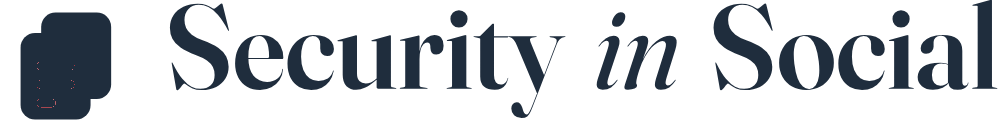
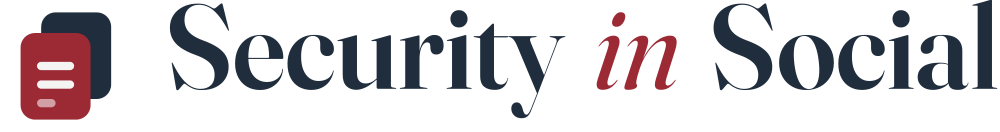
Fix Firm field visibility and garnet thumbnail remap
.form .field { display: flex } overrode the hidden attribute, so Firm
stayed on screen for applicant and family. Force display:none on
.form .field[hidden].

_anchor_remap squared channel deltas in int16, which wrapped and
flattened favicon, apple-touch, and lockup-1000 to slate. Use int32
and clip, then regenerate those four rasters so garnet #9b2a35 is present.

diff --git a/css/site-chrome-slate-garnet.css b/css/site-chrome-slate-garnet.css
@@ -690,6 +690,11 @@ details.faq-item .answer {
   margin: 0;
 }
 
+/* Author `display:flex` beats the UA `[hidden]{display:none}` rule. */
+.form .field[hidden] {
+  display: none !important;
+}
+
 .form .field input,
 .form .field textarea,
 .form .field select,

diff --git a/scripts/remint-slate-garnet-thumbs.py b/scripts/remint-slate-garnet-thumbs.py
@@ -2,8 +2,9 @@
 """Recolor public raster thumbs from Soft Clinic / Campaign Ink to Slate & Garnet."""
 from __future__ import annotations
 
-import colorsys
 import os
+import shutil
+import subprocess
 import sys
 from pathlib import Path
 
@@ -42,18 +43,32 @@ SKIP = {
     IMAGES / "sis-how-it-works-steps.png",
 }
 
+# Brand rasters regenerated from SVG (already Slate & Garnet), then passed
+# through the fixed remap. OG share card is not in this set.
+BRAND_THUMBS = {
+    IMAGES / "brand" / "sis-favicon-16.png",
+    IMAGES / "brand" / "sis-favicon-32.png",
+    IMAGES / "brand" / "sis-lockup-horizontal-1000.png",
+    ROOT / "apple-touch-icon.png",
+}
+
 
 def _anchor_remap(rgb: np.ndarray) -> np.ndarray:
-    out = rgb.copy()
-    flat = out.reshape(-1, 3).astype(np.int16)
+    """Recolor near-anchor pixels.
+
+    Squared channel deltas use int32 and are clipped back to 0–255.
+    int16 wraps (255**2 does not fit), which false-hits distant pixels
+    and flattens garnet marks to slate.
+    """
+    flat = np.ascontiguousarray(rgb).reshape(-1, 3).astype(np.int32)
     for src, dst, tol in ANCHORS:
-        src_a = np.array(src, dtype=np.int16)
-        d = np.sum((flat - src_a) ** 2, axis=1)
-        hit = d <= tol * tol
-        if hit.any():
-            flat[hit] = dst
-    out[:] = flat.reshape(rgb.shape).astype(np.uint8)
-    return out
+        src_a = np.asarray(src, dtype=np.int32)
+        delta = flat - src_a
+        dist2 = np.sum(delta * delta, axis=1)
+        hit = dist2 <= int(tol) * int(tol)
+        if np.any(hit):
+            flat[hit] = np.asarray(dst, dtype=np.int32)
+    return np.clip(flat, 0, 255).astype(np.uint8).reshape(rgb.shape)
 
 
 def _hsv_remap(rgb: np.ndarray) -> np.ndarray:
@@ -134,9 +149,31 @@ def iter_rasters() -> list[Path]:
     return sorted(set(paths))
 
 
+def _raster_svg(svg: Path, width: int, height: int, out: Path, background: tuple[int, int, int] | None) -> None:
+    rsvg = shutil.which("rsvg-convert")
+    if rsvg is None:
+        raise RuntimeError("rsvg-convert is not available")
+    out.parent.mkdir(parents=True, exist_ok=True)
+    subprocess.check_call(
+        [rsvg, "-w", str(width), "-h", str(height), str(svg), "-o", str(out)],
+    )
+    if background is None:
+        return
+    img = Image.open(out).convert("RGBA")
+    canvas = Image.new("RGB", img.size, background)
+    canvas.paste(img, mask=img.getchannel("A"))
+    canvas.save(out, optimize=True)
+
+
 def render_apple_touch_icon() -> None:
     out = ROOT / "apple-touch-icon.png"
-    _draw_mark(180).save(out, optimize=True)
+    svg = IMAGES / "brand" / "sis-favicon.svg"
+    stone = tuple(int(x) for x in STONE)
+    try:
+        _raster_svg(svg, 180, 180, out, stone)
+    except (RuntimeError, subprocess.CalledProcessError, OSError) as exc:
+        print("apple-touch svg raster skipped:", exc, file=sys.stderr)
+        _draw_mark(180).save(out, optimize=True)
 
 
 def _draw_mark(size: int) -> Image.Image:
@@ -159,22 +196,49 @@ def _draw_mark(size: int) -> Image.Image:
 
 
 def render_favicon_pngs() -> None:
+    svg = IMAGES / "brand" / "sis-favicon.svg"
     for dim, name in ((16, "sis-favicon-16.png"), (32, "sis-favicon-32.png")):
-        _draw_mark(dim).save(ROOT / "images" / "brand" / name, optimize=True)
+        dest = IMAGES / "brand" / name
+        try:
+            _raster_svg(svg, dim, dim, dest, None)
+        except (RuntimeError, subprocess.CalledProcessError, OSError) as exc:
+            print(f"favicon svg raster skipped ({name}):", exc, file=sys.stderr)
+            _draw_mark(dim).save(dest, optimize=True)
+
+
+def render_lockup_1000() -> None:
+    dest = IMAGES / "brand" / "sis-lockup-horizontal-1000.png"
+    svg = IMAGES / "brand" / "sis-lockup-horizontal.svg"
+    _raster_svg(svg, 1000, 132, dest, None)
+
+
+def regenerate_brand_thumbs() -> int:
+    """Rebuild favicon, apple-touch, and lockup-1000, then remap with fixed math."""
+    render_apple_touch_icon()
+    render_favicon_pngs()
+    render_lockup_1000()
+    for path in sorted(BRAND_THUMBS):
+        if not path.exists():
+            print("missing brand thumb", path, file=sys.stderr)
+            return 1
+        before = count_banned(path)
+        remint_image(path)
+        after = count_banned(path)
+        print(f"brand {path.relative_to(ROOT)} banned {before} -> {after}")
+        if after:
+            return 1
+    return 0
 
 
 def main() -> int:
-    render_apple_touch_icon()
-    try:
-        render_favicon_pngs()
-    except Exception as exc:  # noqa: BLE001
-        print("favicon png render skipped:", exc, file=sys.stderr)
-
+    brand_resolved = {p.resolve() for p in BRAND_THUMBS}
+    skip_resolved = {p.resolve() for p in SKIP}
     for path in iter_rasters():
         if not path.exists():
             continue
-        if path.resolve() in {p.resolve() for p in SKIP}:
-            print("skip (already reminted)", path.relative_to(ROOT))
+        resolved = path.resolve()
+        if resolved in skip_resolved or resolved in brand_resolved:
+            print("skip (rendered after remap)", path.relative_to(ROOT))
             continue
         before = count_banned(path)
         remint_image(path)
@@ -182,7 +246,7 @@ def main() -> int:
         print(f"remint {path.relative_to(ROOT)} banned {before} -> {after}")
         if after:
             return 1
-    return 0
+    return regenerate_brand_thumbs()
 
 
 if __name__ == "__main__":
